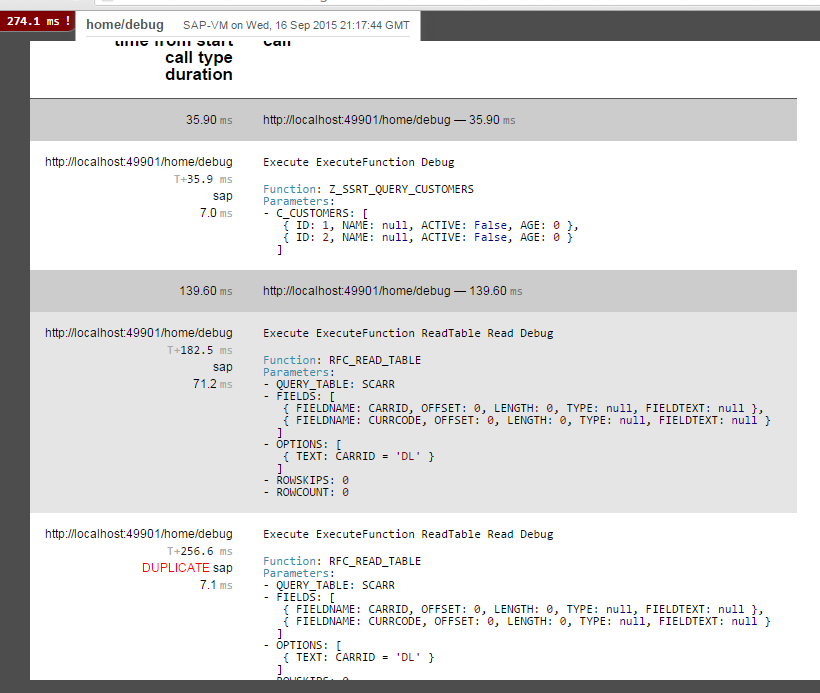
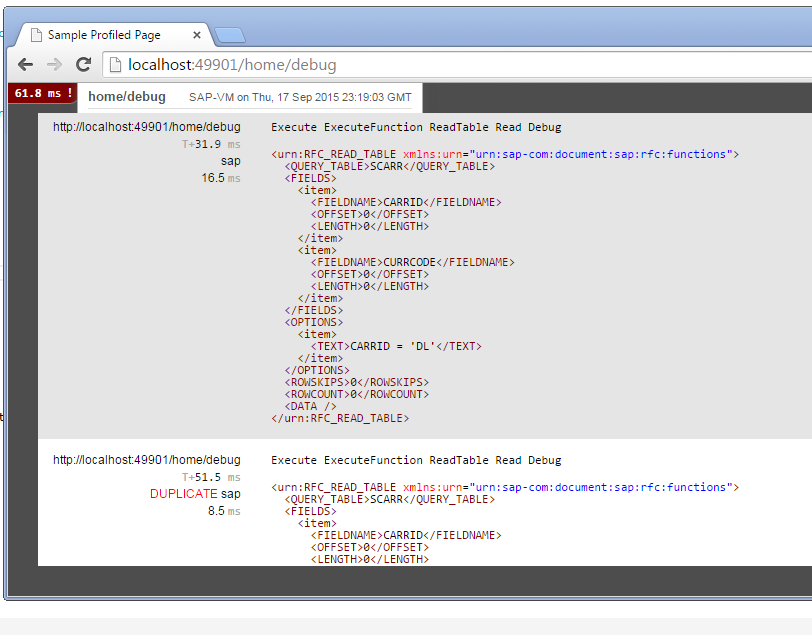
v1.0.1 with better command string

diff --git a/src/ProfiledRfcPreparedFunction.cs b/src/ProfiledRfcPreparedFunction.cs
@@ -15,34 +15,29 @@ namespace SharpSapRfc.Profiling
             this.prepared = prepared;
             this.profiler = profiler;
         }
+
+        public override RfcPreparedFunction Prepare()
+        {
+            foreach (var param in this.Parameters)
+                this.prepared.AddParameter(param);
+
+            return this.prepared.Prepare();
+        }
         
         public override RfcResult Execute()
         {
-            using (this.profiler.CustomTiming("sap", this.GetFormattedCommand()))
+            this.Prepare();
+
+            using (this.profiler.CustomTiming("sap", this.ToString()))
             {
                 return this.prepared.Execute();
             }
         }
 
-        private string GetFormattedCommand()
+        public override string ToString()
         {
-            string formattedCommand = " Empty";
-
-            if (this.Parameters.Any())
-            {
-                string[] parameterList = new string[this.Parameters.Count()];
-                for (int i = 0; i < parameterList.Length; i++)
-                {
-                    var parameter = this.Parameters.ElementAt(i);
-                    this.prepared.AddParameter(parameter);
-                    parameterList[i] = parameter.ToString().Replace("[ {", String.Concat("[", Environment.NewLine, "   {"))
-                                                           .Replace("}, {", String.Concat("}, ", Environment.NewLine, "   {"))
-                                                           .Replace("} ]", String.Concat("}", Environment.NewLine, "  ]"));
-                }
-                formattedCommand = string.Concat(Environment.NewLine, "- ", string.Join(string.Concat(Environment.NewLine, "- "), parameterList));
-            }
-
-            return string.Format("Function: {0}{1}Parameters:{2}", this.FunctionName, Environment.NewLine, formattedCommand);
+            return this.prepared.ToString();
         }
+
     }
 }

diff --git a/src/Properties/AssemblyInfo.cs b/src/Properties/AssemblyInfo.cs
@@ -6,13 +6,8 @@ using System.Runtime.InteropServices;
 // set of attributes. Change these attribute values to modify the information
 // associated with an assembly.
 [assembly: AssemblyTitle("MiniProfiler.SharpSapRfc")]
-[assembly: AssemblyDescription("")]
-[assembly: AssemblyConfiguration("")]
-[assembly: AssemblyCompany("Microsoft")]
 [assembly: AssemblyProduct("MiniProfiler.SharpSapRfc")]
-[assembly: AssemblyCopyright("Copyright © Microsoft 2015")]
-[assembly: AssemblyTrademark("")]
-[assembly: AssemblyCulture("")]
+[assembly: AssemblyCopyright("Copyright (c) 2014-2015 Guilherme Oenning")]
 
 // Setting ComVisible to false makes the types in this assembly not visible 
 // to COM components.  If you need to access a type in this assembly from 
@@ -32,5 +27,5 @@ using System.Runtime.InteropServices;
 // You can specify all the values or you can default the Build and Revision Numbers 
 // by using the '*' as shown below:
 // [assembly: AssemblyVersion("1.0.*")]
-[assembly: AssemblyVersion("1.0.0.0")]
-[assembly: AssemblyFileVersion("1.0.0.0")]
+[assembly: AssemblyVersion("1.0.1")]
+[assembly: AssemblyFileVersion("1.0.1")]
